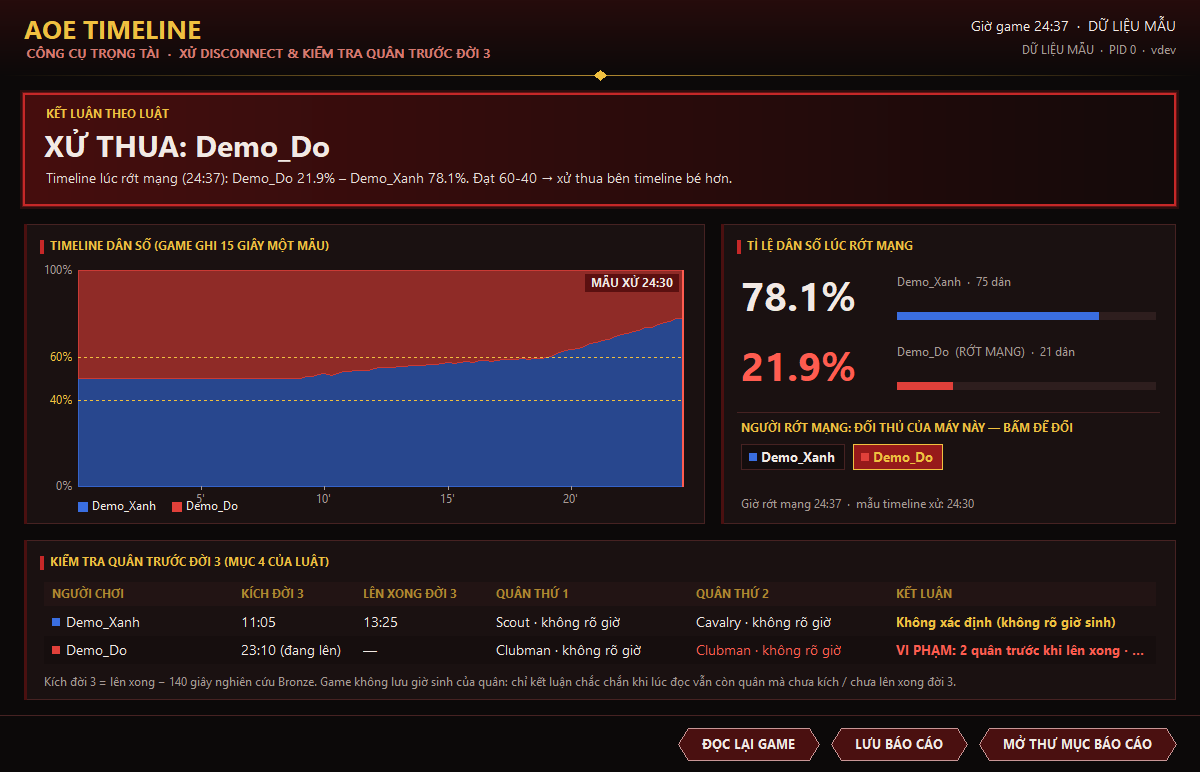
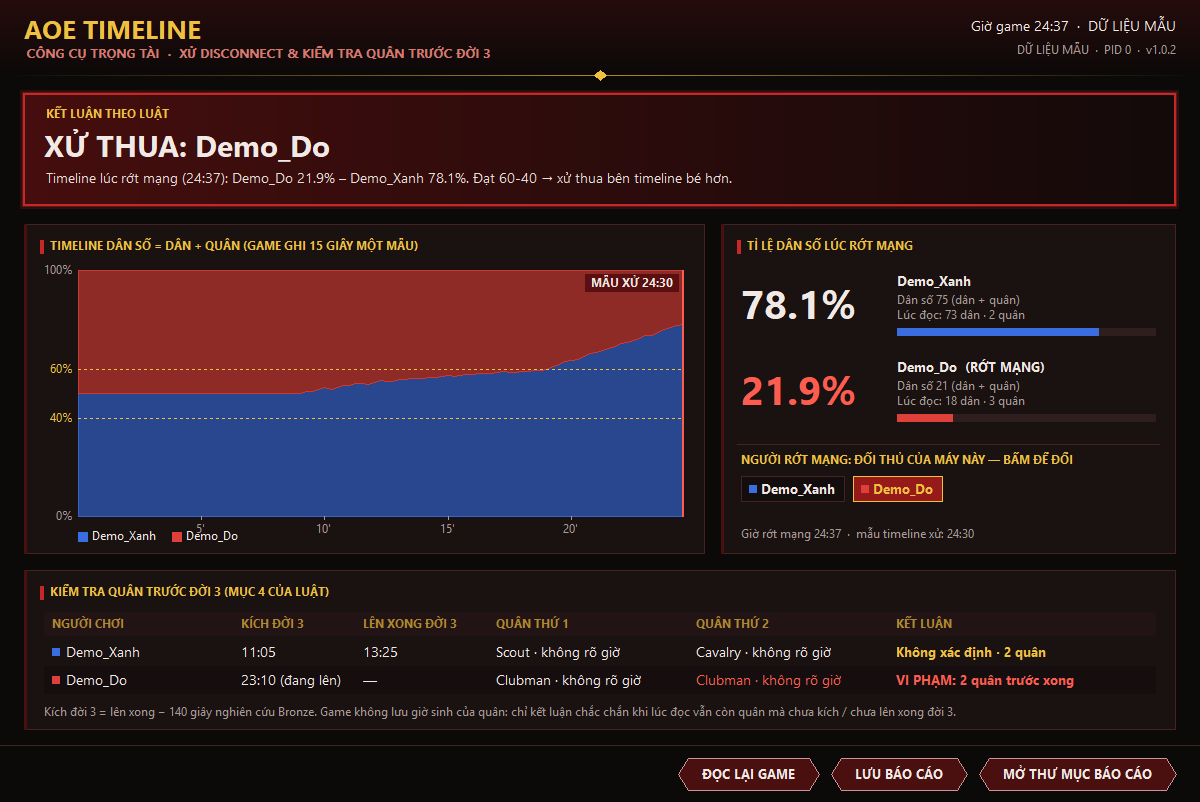
fix(ui): ghi rõ dân số là dân + quân, kết luận quân không bị cắt chữ
Khung tỉ lệ ghi dân số timeline gồm cả dân lẫn quân, kèm số dân và số quân
lúc đọc để trọng tài đối chiếu. Cột KẾT LUẬN dùng câu ngắn vừa ô; báo cáo
txt vẫn ghi đầy đủ.

diff --git a/src/ui.c b/src/ui.c
@@ -215,7 +215,7 @@ static int chart_max_samples(const Snapshot *s)
 
 static void chart(HDC dc, int x, int y, int w, int h)
 {
-    card(dc, x, y, w, h, L"TIMELINE DÂN SỐ (GAME GHI 15 GIÂY MỘT MẪU)");
+    card(dc, x, y, w, h, L"TIMELINE DÂN SỐ = DÂN + QUÂN (GAME GHI 15 GIÂY MỘT MẪU)");
     const Snapshot *s = &U.a->snap;
     const Analysis *an = &U.a->an;
     int cx = x + S(54), cy = y + S(46), cw = w - S(76), ch = h - S(84);
@@ -331,23 +331,32 @@ static void shares(HDC dc, int x, int y, int w, int h)
         tot += an->side_pop[sd];
     int yy = y + S(44);
     int show = an->nsides < 4 ? an->nsides : 4;
-    int rowh = an->nsides <= 2 ? S(70) : S(44);
+    int rowh = an->nsides <= 2 ? S(86) : S(44);
     for (int sd = 0; sd < show; sd++) {
         double pc = tot ? 100.0 * an->side_pop[sd] / tot : 0;
-        int first = -1;
-        for (int i = 0; i < s->n && first < 0; i++)
-            if (an->side_of[i] == sd)
-                first = i;
+        int first = -1, vil = 0, mil = 0;
+        for (int i = 0; i < s->n; i++)
+            if (an->side_of[i] == sd) {
+                if (first < 0)
+                    first = i;
+                vil += (int)(s->p[i].vil_now + 0.5f);
+                mil += s->p[i].n_mil;
+            }
         COLORREF c = first >= 0 ? PCOL[(s->p[first].number - 1) & 7] : MUTED;
-        wchar_t big[24], small[200];
+        wchar_t big[24], name[200], small[200];
         swprintf(big, 24, L"%.1f%%", pc);
-        swprintf(small, 200, L"%ls%ls  ·  %ld dân", an->side_name[sd], sd == an->dc_side ? L"  (RỚT MẠNG)" : L"",
-                 an->side_pop[sd]);
+        swprintf(name, 200, L"%ls%ls", an->side_name[sd], sd == an->dc_side ? L"  (RỚT MẠNG)" : L"");
+        /* timeline = tổng dân số (dân + quân); kèm số dân / quân lúc đọc để không hiểu nhầm */
+        if (an->nsides <= 2)
+            swprintf(small, 200, L"Dân số %ld (dân + quân)\nLúc đọc: %d dân · %d quân", an->side_pop[sd], vil, mil);
+        else
+            swprintf(small, 200, L"Dân số %ld (dân + quân)", an->side_pop[sd]);
         int bigf = an->nsides <= 2 ? F_BIG : F_VERDICT;
         text(dc, bigf, sd == an->dc_side ? BAD_RED : INK, x + S(20), yy, S(170), rowh - S(16), big,
              DT_LEFT | DT_SINGLELINE | DT_VCENTER);
-        text(dc, F_SMALL, MUTED, x + S(176), yy + S(6), w - S(196), rowh - S(26), small,
-             DT_LEFT | DT_WORDBREAK | DT_END_ELLIPSIS);
+        text(dc, F_BTN, INK, x + S(176), yy + S(4), w - S(196), S(18), name,
+             DT_LEFT | DT_SINGLELINE | DT_END_ELLIPSIS);
+        text(dc, F_SMALL, MUTED, x + S(176), yy + S(24), w - S(196), rowh - S(50), small, DT_LEFT | DT_END_ELLIPSIS);
         int bx = x + S(176), bw = w - S(196), by = yy + rowh - S(26);
         fill(dc, bx, by, bw, S(8), RGB(46, 30, 30));
         fill(dc, bx, by, (int)(bw * pc / 100), S(8), c);
@@ -433,8 +442,8 @@ static void military(HDC dc, int x, int y, int w, int h)
         mil_cell(p->n_mil > 0 ? &p->mil[0] : NULL, c3, 80);
         mil_cell(p->n_mil > 1 ? &p->mil[1] : NULL, c4, 80);
         int level;
-        int len = swprintf(c5, 120, L"%ls", mil_verdict(fl, p->n_mil, &level));
-        if (p->n_mil > 2 && len > 0)
+        int len = swprintf(c5, 120, L"%ls", mil_verdict(fl, p->n_mil, 1, &level));
+        if (level < 2 && p->n_mil > 0 && len > 0)
             swprintf(c5 + len, 120 - len, L" · %d quân", p->n_mil);
         const wchar_t *cells[6] = {c0, c1, c2, c3, c4, c5};
         for (int c = 0; c < 6; c++) {
@@ -461,7 +470,7 @@ static void military(HDC dc, int x, int y, int w, int h)
 static int layout_height(void)
 {
     int n = U.a->snap.n > 2 ? U.a->snap.n : 2;
-    return 76 + 16 + 116 + 18 + 300 + 16 + (104 + 28 * n) + 70;
+    return 76 + 16 + 116 + 18 + 330 + 16 + (104 + 28 * n) + 70;
 }
 
 static void paint(HDC dc, int W, int H)
@@ -472,9 +481,9 @@ static void paint(HDC dc, int W, int H)
     verdict(dc, m, y, W - 2 * m, S(112));
     y += S(112 + 18);
     int left = (W - 2 * m - S(16)) * 60 / 100;
-    chart(dc, m, y, left, S(300));
-    shares(dc, m + left + S(16), y, W - 2 * m - left - S(16), S(300));
-    y += S(300 + 16);
+    chart(dc, m, y, left, S(330));
+    shares(dc, m + left + S(16), y, W - 2 * m - left - S(16), S(330));
+    y += S(330 + 16);
     int n = U.a->snap.n > 2 ? U.a->snap.n : 2;
     military(dc, m, y, W - 2 * m, S(104 + 28 * n));
     /* chân trang */

diff --git a/src/report.c b/src/report.c
@@ -71,7 +71,7 @@ static void write_txt(Out *o, App *a)
     for (int k = 0; k < an->nsides; k++)
         tot += an->side_pop[k];
     for (int k = 0; k < an->nsides; k++)
-        put(o, L"  Phe %d: %ls — %ld dân (%.1f%%)\r\n", k + 1, an->side_name[k], an->side_pop[k],
+        put(o, L"  Phe %d: %ls — dân số %ld (dân + quân), %.1f%%\r\n", k + 1, an->side_name[k], an->side_pop[k],
             tot ? 100.0 * an->side_pop[k] / tot : 0.0);
 
     put(o, L"\r\nNGƯỜI CHƠI\r\n");
@@ -79,9 +79,9 @@ static void write_txt(Out *o, App *a)
         const Player *p = &s->p[i];
         wchar_t team[16];
         swprintf(team, 16, p->team ? L"đội %d" : L"không đội", p->team);
-        put(o, L"  P%d %ls — %ls, %ls, %ls, dân số hiện tại %.0f, %d mẫu timeline%ls\r\n", p->number, p->name,
-            civ_name(p->civ), team, status_name(p), p->pop_now, p->n_samples,
-            p->number == s->me ? L" (máy này)" : L"");
+        put(o, L"  P%d %ls — %ls, %ls, %ls, lúc đọc: dân số %.0f (%.0f dân, %d quân), %d mẫu timeline%ls\r\n",
+            p->number, p->name, civ_name(p->civ), team, status_name(p), p->pop_now, p->vil_now, p->n_mil,
+            p->n_samples, p->number == s->me ? L" (máy này)" : L"");
     }
 
     put(o, L"\r\nKIỂM TRA QUÂN TRƯỚC ĐỜI 3\r\n");
@@ -94,7 +94,7 @@ static void write_txt(Out *o, App *a)
         int fl = an->mil_flags[i];
         int level;
         put(o, L"  P%d %ls: lên xong đời 2 %ls · kích đời 3 %ls · lên xong đời 3 %ls · %d quân còn sống → %ls\r\n",
-            p->number, p->name, e2, c, d, p->n_mil, mil_verdict(fl, p->n_mil, &level));
+            p->number, p->name, e2, c, d, p->n_mil, mil_verdict(fl, p->n_mil, 0, &level));
         for (int k = 0; k < p->n_mil && k < MAX_MIL; k++) {
             const MilUnit *u = &p->mil[k];
             fmt_time(u->born_s, c, 16);

diff --git a/src/app.c b/src/app.c
@@ -23,17 +23,17 @@ void fmt_time(int s, wchar_t *out, int n)
         swprintf(out, n, L"%02d:%02d", s / 60, s % 60);
 }
 
-const wchar_t *mil_verdict(int fl, int n_mil, int *level)
+const wchar_t *mil_verdict(int fl, int n_mil, int brief, int *level)
 {
     *level = (fl & (MIL_BEFORE_CLICK | MIL_TWO_BEFORE_DONE)) ? 2 : fl ? 1 : 0;
     if ((fl & MIL_BEFORE_CLICK) && (fl & MIL_TWO_BEFORE_DONE))
-        return L"VI PHẠM: quân trước kích + 2 quân";
+        return brief ? L"VI PHẠM: cả 2 lỗi" : L"VI PHẠM: quân trước khi kích đời 3 + 2 quân trước khi lên xong";
     if (fl & MIL_BEFORE_CLICK)
-        return L"VI PHẠM: quân trước khi kích đời 3";
+        return brief ? L"VI PHẠM: quân trước kích" : L"VI PHẠM: quân trước khi kích đời 3";
     if (fl & MIL_TWO_BEFORE_DONE)
-        return L"VI PHẠM: 2 quân trước khi lên xong";
+        return brief ? L"VI PHẠM: 2 quân trước xong" : L"VI PHẠM: 2 quân trước khi lên xong đời 3";
     if (fl)
-        return L"Không xác định (không rõ giờ sinh)";
+        return brief ? L"Không xác định" : L"Không xác định (game không lưu giờ sinh của quân)";
     return n_mil ? L"Hợp lệ" : L"Hợp lệ (không có quân)";
 }
 
@@ -323,6 +323,7 @@ void app_demo(App *a)
             p->samples[k] = (unsigned char)(v < 3 ? 3 : v);
         }
         p->pop_now = p->samples[p->n_samples - 1];
+        p->vil_now = p->pop_now - (i == 0 ? 2 : 3);
         p->age_done_s[0] = i == 0 ? 8 * 60 + 41 : 9 * 60 + 12;
         p->age_done_s[1] = i == 0 ? 13 * 60 + 25 : -1;
         p->bronze_state = i == 0 ? 3 : 2;

diff --git a/src/game.h b/src/game.h
@@ -26,7 +26,8 @@ typedef struct {
     int status;                 /* 0 đang chơi, 1 thắng, 2 thua */
     int resigned;
     int comm_state;             /* trạng thái người chơi trong phiên mạng */
-    float pop_now;              /* dân số hiện tại (thuộc tính 11) */
+    float pop_now;              /* dân số hiện tại = dân + quân (thuộc tính 11) */
+    float vil_now;              /* số dân (villager) hiện tại (thuộc tính 37) */
     int n_samples;
     unsigned char samples[MAX_SAMPLES];
     int age_done_s[3];          /* lên xong đời 2 / 3 / 4 (giây game), -1 nếu chưa */

diff --git a/src/app.h b/src/app.h
@@ -46,7 +46,8 @@ void app_analyze(App *a);
 void app_demo(App *a);
 void fmt_time(int s, wchar_t *out, int n);   /* "mm:ss" / "h:mm:ss"; "—" nếu s < 0 */
 const wchar_t *civ_name(int civ);
-const wchar_t *mil_verdict(int flags, int n_mil, int *level);   /* level 2 vi phạm, 1 không xác định, 0 hợp lệ */
+/* level 2 vi phạm, 1 không xác định, 0 hợp lệ; brief = bản ngắn cho cột KẾT LUẬN của giao diện */
+const wchar_t *mil_verdict(int flags, int n_mil, int brief, int *level);
 
 int report_write(App *a);       /* ghi .txt + .csv vào out_dir; 1 = được */
 

diff --git a/src/game.c b/src/game.c
@@ -280,6 +280,7 @@ int game_read(Snapshot *s)
         pl->comm_state = comm ? i32(comm + C_PLAYER_STATE + 4 * i) : 0;
         DWORD attrs = u32(p + P_ATTRS);
         pl->pop_now = attrs ? f32(attrs + 11 * 4) : 0;
+        pl->vil_now = attrs ? f32(attrs + 37 * 4) : 0;
         read_timeline(p, pl);
         pl->bronze_click_s = -1;
         DWORD res = u32(p + P_RESEARCH);
